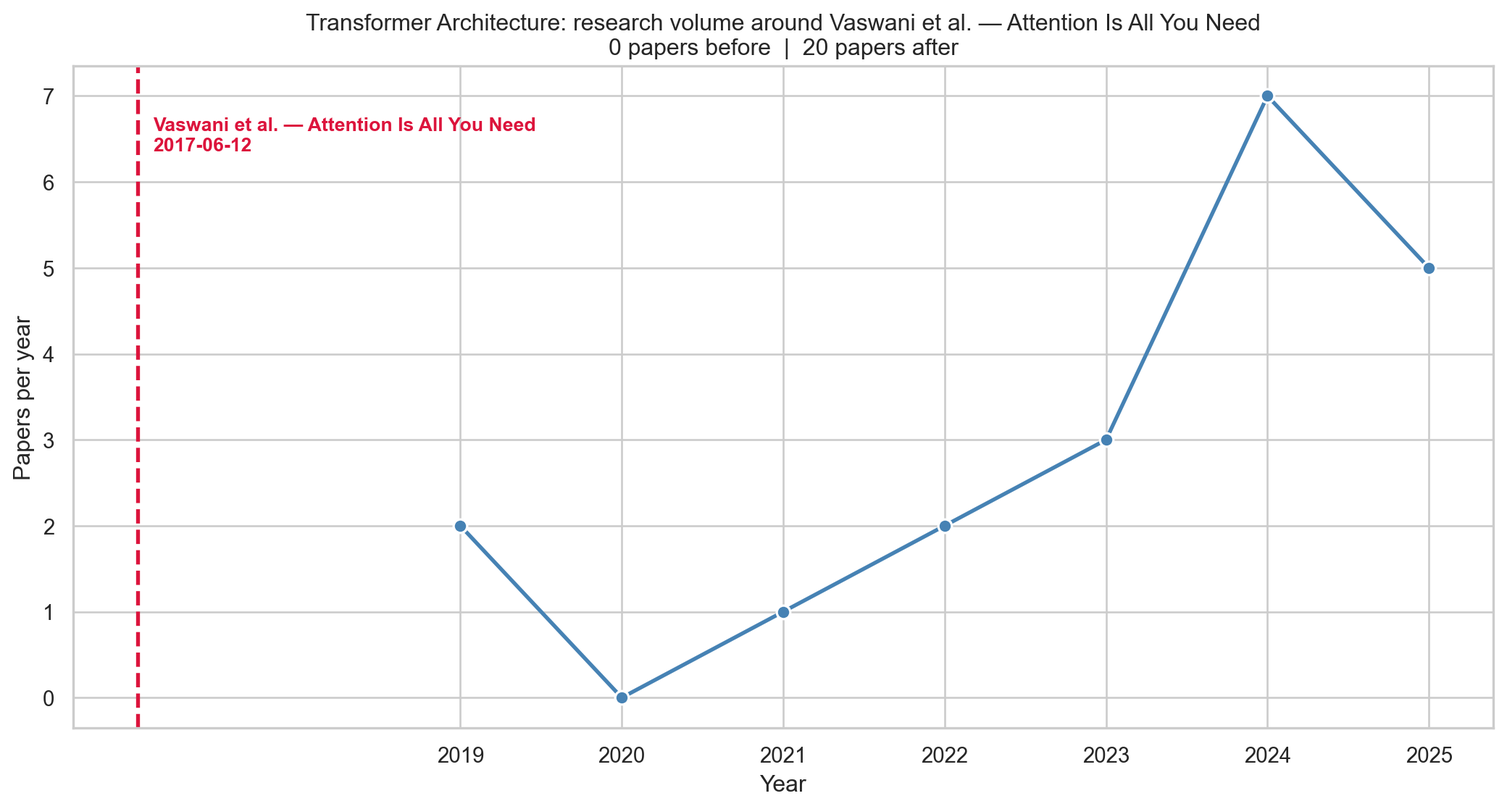
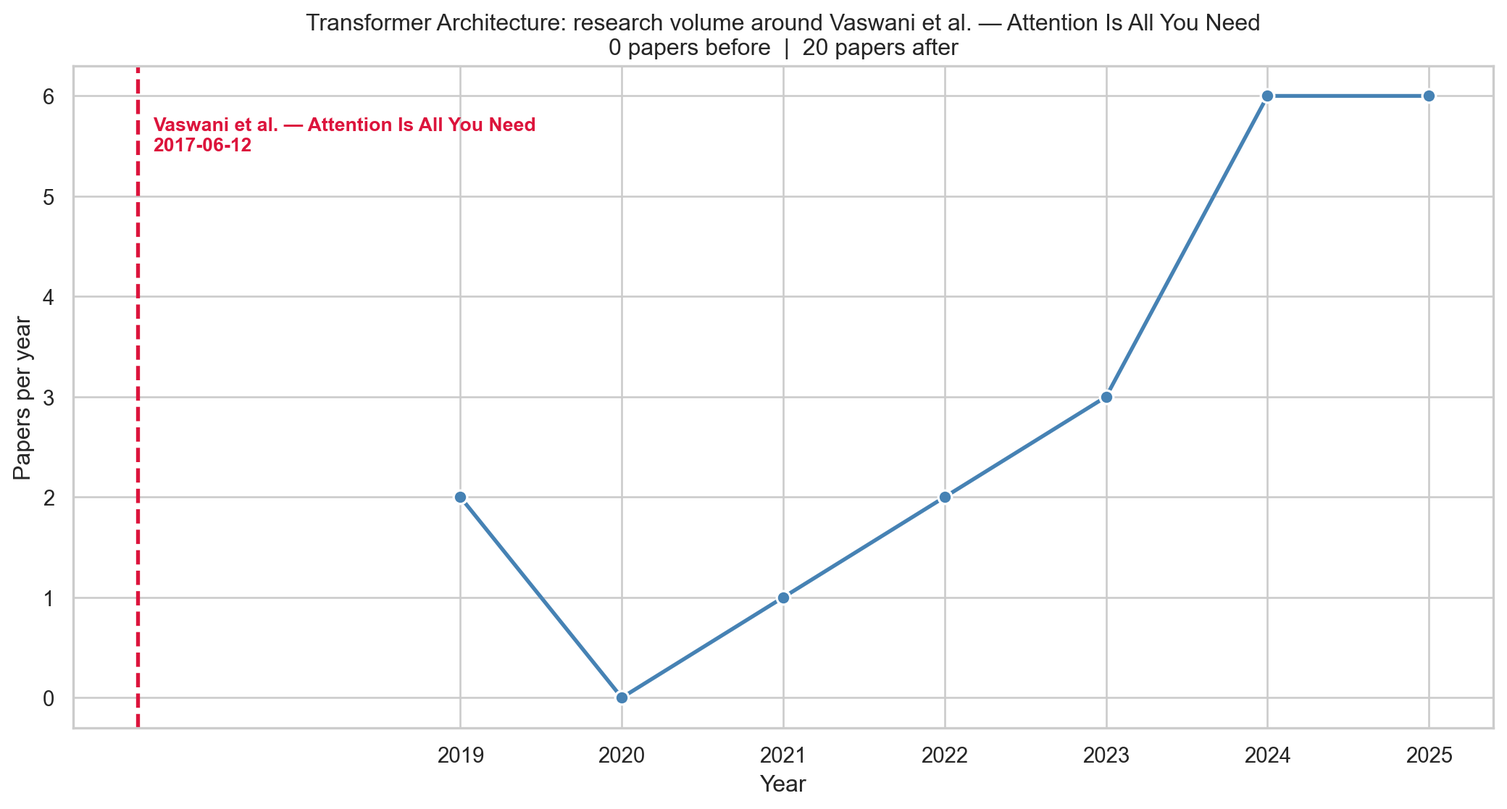
Rendering the pages with updated cache

Changed region(s): [[0.0312, 0.0913, 1.0, 0.7001], [0.0312, 0.6088, 1.0, 0.8523]]

diff --git a/docs/tutorial.html b/docs/tutorial.html
@@ -202,11 +202,11 @@ pre > code.sourceCode > span > a:first-child::before { text-decoration: underlin
 <section id="importing" class="level2">
 <h2 class="anchored" data-anchor-id="importing">Importing</h2>
 <p>To import the entire package:</p>
-<div id="1877313b" class="cell" data-execution_count="2">
+<div id="80380917" class="cell" data-execution_count="2">
 <div class="code-copy-outer-scaffold"><div class="sourceCode cell-code" id="cb3"><pre class="sourceCode python code-with-copy"><code class="sourceCode python"><span id="cb3-1"><a href="#cb3-1" aria-hidden="true" tabindex="-1"></a><span class="im">import</span> ml_research_trends</span></code></pre></div><button title="Copy to Clipboard" class="code-copy-button"><i class="bi"></i></button></div>
 </div>
 <p>To import individual functions:</p>
-<div id="402407ae" class="cell" data-execution_count="3">
+<div id="df97f679" class="cell" data-execution_count="3">
 <div class="code-copy-outer-scaffold"><div class="sourceCode cell-code" id="cb4"><pre class="sourceCode python code-with-copy"><code class="sourceCode python"><span id="cb4-1"><a href="#cb4-1" aria-hidden="true" tabindex="-1"></a><span class="im">from</span> ml_research_trends <span class="im">import</span> (</span>
 <span id="cb4-2"><a href="#cb4-2" aria-hidden="true" tabindex="-1"></a>    collect_topic_data,</span>
 <span id="cb4-3"><a href="#cb4-3" aria-hidden="true" tabindex="-1"></a>    summarize_topic_data,</span>
@@ -220,7 +220,7 @@ pre > code.sourceCode > span > a:first-child::before { text-decoration: underlin
 <section id="setting-up-api-key" class="level2">
 <h2 class="anchored" data-anchor-id="setting-up-api-key">Setting up API Key</h2>
 <p>To load your API key from a <code>.env</code> file, use the <code>python-dotenv</code> package:</p>
-<div id="ef46e774" class="cell" data-execution_count="4">
+<div id="489b87f1" class="cell" data-execution_count="4">
 <div class="code-copy-outer-scaffold"><div class="sourceCode cell-code" id="cb5"><pre class="sourceCode python code-with-copy"><code class="sourceCode python"><span id="cb5-1"><a href="#cb5-1" aria-hidden="true" tabindex="-1"></a><span class="im">from</span> dotenv <span class="im">import</span> load_dotenv</span>
 <span id="cb5-2"><a href="#cb5-2" aria-hidden="true" tabindex="-1"></a><span class="im">import</span> os</span>
 <span id="cb5-3"><a href="#cb5-3" aria-hidden="true" tabindex="-1"></a></span>
@@ -239,7 +239,7 @@ pre > code.sourceCode > span > a:first-child::before { text-decoration: underlin
 <h3 class="anchored" data-anchor-id="step-1-gather-data">Step 1: Gather Data</h3>
 <p>First you need to create your dataset using the SemanticScholar API. You can do this using the <code>collect_topic_data</code> function.</p>
 <p>This queries Semantic Scholar for each keyword, de-duplicates the results, filters by year, and returns a tidy <code>pandas.DataFrame</code>. It also writes the DataFrame to CSV if <code>save_path</code> is given.</p>
-<div id="058a8e66" class="cell" data-execution_count="5">
+<div id="455bee70" class="cell" data-execution_count="5">
 <div class="code-copy-outer-scaffold"><div class="sourceCode cell-code" id="cb7"><pre class="sourceCode python code-with-copy"><code class="sourceCode python"><span id="cb7-1"><a href="#cb7-1" aria-hidden="true" tabindex="-1"></a>df <span class="op">=</span> collect_topic_data(</span>
 <span id="cb7-2"><a href="#cb7-2" aria-hidden="true" tabindex="-1"></a>    keywords<span class="op">=</span>[</span>
 <span id="cb7-3"><a href="#cb7-3" aria-hidden="true" tabindex="-1"></a>        <span class="st">"self-attention neural network"</span>,</span>
@@ -256,7 +256,13 @@ pre > code.sourceCode > span > a:first-child::before { text-decoration: underlin
 <span id="cb7-14"><a href="#cb7-14" aria-hidden="true" tabindex="-1"></a><span class="bu">print</span>(df[[<span class="st">"title"</span>, <span class="st">"year"</span>, <span class="st">"citation_count"</span>, <span class="st">"venue"</span>]].head())</span>
 <span id="cb7-15"><a href="#cb7-15" aria-hidden="true" tabindex="-1"></a><span class="bu">print</span>(<span class="st">"Total papers:"</span>, <span class="bu">len</span>(df))</span></code></pre></div><button title="Copy to Clipboard" class="code-copy-button"><i class="bi"></i></button></div>
 <div class="cell-output cell-output-stderr">
-<pre><code>Fetching papers:   0%|          | 0/4 [00:00&lt;?, ?req/s]Fetching papers:   0%|          | 0/4 [00:00&lt;?, ?req/s, keyword=self-attention neural network]Fetching papers:  25%|██▌       | 1/4 [00:00&lt;00:02,  1.33req/s, keyword=self-attention neural network]Fetching papers:  25%|██▌       | 1/4 [00:00&lt;00:02,  1.33req/s, collected=0, keyword=self-attention neural network]Fetching papers:  25%|██▌       | 1/4 [00:00&lt;00:02,  1.33req/s, keyword=multi-head attention]                      Fetching papers:  50%|█████     | 2/4 [00:01&lt;00:01,  1.09req/s, keyword=multi-head attention]Fetching papers:  50%|█████     | 2/4 [00:01&lt;00:01,  1.09req/s, collected=5, keyword=multi-head attention]Fetching papers:  50%|█████     | 2/4 [00:01&lt;00:01,  1.09req/s, keyword=transformer language model]       Fetching papers:  75%|███████▌  | 3/4 [00:03&lt;00:01,  1.09s/req, keyword=transformer language model]Fetching papers:  75%|███████▌  | 3/4 [00:03&lt;00:01,  1.09s/req, collected=10, keyword=transformer language model]Fetching papers:  75%|███████▌  | 3/4 [00:03&lt;00:01,  1.09s/req, keyword=encoder decoder transformer]             Fetching papers: 100%|██████████| 4/4 [00:04&lt;00:00,  1.09s/req, keyword=encoder decoder transformer]Fetching papers: 100%|██████████| 4/4 [00:04&lt;00:00,  1.09s/req, collected=15, keyword=encoder decoder transformer]Fetching papers: 100%|██████████| 4/4 [00:04&lt;00:00,  1.04s/req, collected=15, keyword=encoder decoder transformer]</code></pre>
+<pre><code>Fetching papers:   0%|          | 0/4 [00:00&lt;?, ?req/s]Fetching papers:   0%|          | 0/4 [00:00&lt;?, ?req/s, keyword=self-attention neural network]Fetching papers:  25%|██▌       | 1/4 [00:00&lt;00:02,  1.13req/s, keyword=self-attention neural network]Fetching papers:  25%|██▌       | 1/4 [00:00&lt;00:02,  1.13req/s, collected=0, keyword=self-attention neural network]Fetching papers:  25%|██▌       | 1/4 [00:00&lt;00:02,  1.13req/s, keyword=multi-head attention]                                                                                                                   Fetching papers:  25%|██▌       | 1/4 [00:01&lt;00:02,  1.13req/s, keyword=multi-head attention]</code></pre>
+</div>
+<div class="cell-output cell-output-stdout">
+<pre><code>Rate limited (429). Waiting 1s before retry...</code></pre>
+</div>
+<div class="cell-output cell-output-stderr">
+<pre><code>Fetching papers:  50%|█████     | 2/4 [00:03&lt;00:03,  1.72s/req, keyword=multi-head attention]Fetching papers:  50%|█████     | 2/4 [00:03&lt;00:03,  1.72s/req, collected=5, keyword=multi-head attention]Fetching papers:  50%|█████     | 2/4 [00:03&lt;00:03,  1.72s/req, keyword=transformer language model]       Fetching papers:  75%|███████▌  | 3/4 [00:04&lt;00:01,  1.45s/req, keyword=transformer language model]Fetching papers:  75%|███████▌  | 3/4 [00:04&lt;00:01,  1.45s/req, collected=10, keyword=transformer language model]Fetching papers:  75%|███████▌  | 3/4 [00:04&lt;00:01,  1.45s/req, keyword=encoder decoder transformer]             Fetching papers: 100%|██████████| 4/4 [00:05&lt;00:00,  1.26s/req, keyword=encoder decoder transformer]Fetching papers: 100%|██████████| 4/4 [00:05&lt;00:00,  1.26s/req, collected=15, keyword=encoder decoder transformer]Fetching papers: 100%|██████████| 4/4 [00:05&lt;00:00,  1.32s/req, collected=15, keyword=encoder decoder transformer]</code></pre>
 </div>
 <div class="cell-output cell-output-stdout">
 <pre><code>                                               title  year  citation_count  \
@@ -281,14 +287,14 @@ Total papers: 20</code></pre>
 </section>
 <section id="step-2-summarize-and-analyze" class="level3">
 <h3 class="anchored" data-anchor-id="step-2-summarize-and-analyze">Step 2: Summarize and analyze</h3>
-<div id="f2e312cc" class="cell" data-execution_count="6">
-<div class="code-copy-outer-scaffold"><div class="sourceCode cell-code" id="cb11"><pre class="sourceCode python code-with-copy"><code class="sourceCode python"><span id="cb11-1"><a href="#cb11-1" aria-hidden="true" tabindex="-1"></a>summary <span class="op">=</span> summarize_topic_data(df)</span>
-<span id="cb11-2"><a href="#cb11-2" aria-hidden="true" tabindex="-1"></a><span class="bu">print</span>(<span class="st">"Total papers:"</span>, summary[<span class="st">"total_papers"</span>])</span>
-<span id="cb11-3"><a href="#cb11-3" aria-hidden="true" tabindex="-1"></a><span class="bu">print</span>(<span class="st">"Year range:"</span>, summary[<span class="st">"year_min"</span>], <span class="st">"-"</span>, summary[<span class="st">"year_max"</span>])</span>
-<span id="cb11-4"><a href="#cb11-4" aria-hidden="true" tabindex="-1"></a><span class="bu">print</span>(<span class="st">"Median citations:"</span>, summary[<span class="st">"median_citations"</span>])</span>
-<span id="cb11-5"><a href="#cb11-5" aria-hidden="true" tabindex="-1"></a></span>
-<span id="cb11-6"><a href="#cb11-6" aria-hidden="true" tabindex="-1"></a>trends <span class="op">=</span> analyze_topic_trends(df)</span>
-<span id="cb11-7"><a href="#cb11-7" aria-hidden="true" tabindex="-1"></a><span class="bu">print</span>(trends)</span></code></pre></div><button title="Copy to Clipboard" class="code-copy-button"><i class="bi"></i></button></div>
+<div id="efb31002" class="cell" data-execution_count="6">
+<div class="code-copy-outer-scaffold"><div class="sourceCode cell-code" id="cb13"><pre class="sourceCode python code-with-copy"><code class="sourceCode python"><span id="cb13-1"><a href="#cb13-1" aria-hidden="true" tabindex="-1"></a>summary <span class="op">=</span> summarize_topic_data(df)</span>
+<span id="cb13-2"><a href="#cb13-2" aria-hidden="true" tabindex="-1"></a><span class="bu">print</span>(<span class="st">"Total papers:"</span>, summary[<span class="st">"total_papers"</span>])</span>
+<span id="cb13-3"><a href="#cb13-3" aria-hidden="true" tabindex="-1"></a><span class="bu">print</span>(<span class="st">"Year range:"</span>, summary[<span class="st">"year_min"</span>], <span class="st">"-"</span>, summary[<span class="st">"year_max"</span>])</span>
+<span id="cb13-4"><a href="#cb13-4" aria-hidden="true" tabindex="-1"></a><span class="bu">print</span>(<span class="st">"Median citations:"</span>, summary[<span class="st">"median_citations"</span>])</span>
+<span id="cb13-5"><a href="#cb13-5" aria-hidden="true" tabindex="-1"></a></span>
+<span id="cb13-6"><a href="#cb13-6" aria-hidden="true" tabindex="-1"></a>trends <span class="op">=</span> analyze_topic_trends(df)</span>
+<span id="cb13-7"><a href="#cb13-7" aria-hidden="true" tabindex="-1"></a><span class="bu">print</span>(trends)</span></code></pre></div><button title="Copy to Clipboard" class="code-copy-button"><i class="bi"></i></button></div>
 <div class="cell-output cell-output-stdout">
 <pre><code>Total papers: 20
 Year range: 2019 - 2025
@@ -298,8 +304,8 @@ Median citations: 23.5
 1  2021            1          70.000000              70.0
 2  2022            2          52.000000              52.0
 3  2023            3          21.666667              19.0
-4  2024            7          19.571429              18.0
-5  2025            5          17.600000              17.0</code></pre>
+4  2024            6          21.000000              21.0
+5  2025            6          14.666667              14.5</code></pre>
 </div>
 </div>
 </section>
@@ -307,12 +313,12 @@ Median citations: 23.5
 <h3 class="anchored" data-anchor-id="step-3-make-plots">Step 3: Make plots</h3>
 <section id="year-counts" class="level4">
 <h4 class="anchored" data-anchor-id="year-counts">Year counts</h4>
-<div id="bf8890e1" class="cell" data-execution_count="7">
-<div class="code-copy-outer-scaffold"><div class="sourceCode cell-code" id="cb13"><pre class="sourceCode python code-with-copy"><code class="sourceCode python"><span id="cb13-1"><a href="#cb13-1" aria-hidden="true" tabindex="-1"></a>plot_topic_counts_by_year(</span>
-<span id="cb13-2"><a href="#cb13-2" aria-hidden="true" tabindex="-1"></a>    trends, </span>
-<span id="cb13-3"><a href="#cb13-3" aria-hidden="true" tabindex="-1"></a>    topic_name<span class="op">=</span><span class="st">"Transformer Architecture"</span></span>
-<span id="cb13-4"><a href="#cb13-4" aria-hidden="true" tabindex="-1"></a>)</span>
-<span id="cb13-5"><a href="#cb13-5" aria-hidden="true" tabindex="-1"></a><span class="va">None</span></span></code></pre></div><button title="Copy to Clipboard" class="code-copy-button"><i class="bi"></i></button></div>
+<div id="00441028" class="cell" data-execution_count="7">
+<div class="code-copy-outer-scaffold"><div class="sourceCode cell-code" id="cb15"><pre class="sourceCode python code-with-copy"><code class="sourceCode python"><span id="cb15-1"><a href="#cb15-1" aria-hidden="true" tabindex="-1"></a>plot_topic_counts_by_year(</span>
+<span id="cb15-2"><a href="#cb15-2" aria-hidden="true" tabindex="-1"></a>    trends, </span>
+<span id="cb15-3"><a href="#cb15-3" aria-hidden="true" tabindex="-1"></a>    topic_name<span class="op">=</span><span class="st">"Transformer Architecture"</span></span>
+<span id="cb15-4"><a href="#cb15-4" aria-hidden="true" tabindex="-1"></a>)</span>
+<span id="cb15-5"><a href="#cb15-5" aria-hidden="true" tabindex="-1"></a><span class="va">None</span></span></code></pre></div><button title="Copy to Clipboard" class="code-copy-button"><i class="bi"></i></button></div>
 <div class="cell-output cell-output-display">
 <div>
 <figure class="figure">
@@ -324,14 +330,14 @@ Median citations: 23.5
 </section>
 <section id="landmark-timeline" class="level4">
 <h4 class="anchored" data-anchor-id="landmark-timeline">Landmark Timeline</h4>
-<div id="95ce99e2" class="cell" data-execution_count="8">
-<div class="code-copy-outer-scaffold"><div class="sourceCode cell-code" id="cb14"><pre class="sourceCode python code-with-copy"><code class="sourceCode python"><span id="cb14-1"><a href="#cb14-1" aria-hidden="true" tabindex="-1"></a>plot_landmark_timeline(</span>
-<span id="cb14-2"><a href="#cb14-2" aria-hidden="true" tabindex="-1"></a>    df,</span>
-<span id="cb14-3"><a href="#cb14-3" aria-hidden="true" tabindex="-1"></a>    landmark_date<span class="op">=</span><span class="st">"2017-06-12"</span>,</span>
-<span id="cb14-4"><a href="#cb14-4" aria-hidden="true" tabindex="-1"></a>    landmark_label<span class="op">=</span><span class="st">"Vaswani et al. — Attention Is All You Need"</span>,</span>
-<span id="cb14-5"><a href="#cb14-5" aria-hidden="true" tabindex="-1"></a>    topic_name<span class="op">=</span><span class="st">"Transformer Architecture"</span>,</span>
-<span id="cb14-6"><a href="#cb14-6" aria-hidden="true" tabindex="-1"></a>)</span>
-<span id="cb14-7"><a href="#cb14-7" aria-hidden="true" tabindex="-1"></a><span class="va">None</span></span></code></pre></div><button title="Copy to Clipboard" class="code-copy-button"><i class="bi"></i></button></div>
+<div id="47de600d" class="cell" data-execution_count="8">
+<div class="code-copy-outer-scaffold"><div class="sourceCode cell-code" id="cb16"><pre class="sourceCode python code-with-copy"><code class="sourceCode python"><span id="cb16-1"><a href="#cb16-1" aria-hidden="true" tabindex="-1"></a>plot_landmark_timeline(</span>
+<span id="cb16-2"><a href="#cb16-2" aria-hidden="true" tabindex="-1"></a>    df,</span>
+<span id="cb16-3"><a href="#cb16-3" aria-hidden="true" tabindex="-1"></a>    landmark_date<span class="op">=</span><span class="st">"2017-06-12"</span>,</span>
+<span id="cb16-4"><a href="#cb16-4" aria-hidden="true" tabindex="-1"></a>    landmark_label<span class="op">=</span><span class="st">"Vaswani et al. — Attention Is All You Need"</span>,</span>
+<span id="cb16-5"><a href="#cb16-5" aria-hidden="true" tabindex="-1"></a>    topic_name<span class="op">=</span><span class="st">"Transformer Architecture"</span>,</span>
+<span id="cb16-6"><a href="#cb16-6" aria-hidden="true" tabindex="-1"></a>)</span>
+<span id="cb16-7"><a href="#cb16-7" aria-hidden="true" tabindex="-1"></a><span class="va">None</span></span></code></pre></div><button title="Copy to Clipboard" class="code-copy-button"><i class="bi"></i></button></div>
 <div class="cell-output cell-output-display">
 <div>
 <figure class="figure">
@@ -344,15 +350,33 @@ Median citations: 23.5
 <section id="embedding-abstracts" class="level4">
 <h4 class="anchored" data-anchor-id="embedding-abstracts">Embedding Abstracts</h4>
 <p>Note: Embedding the first time will download the model (~8 GB) and cache the vectors to <code>cache_path</code>. After that, rerunning is fast.</p>
-<div id="aacf5689" class="cell" data-execution_count="9">
-<div class="code-copy-outer-scaffold"><div class="sourceCode cell-code" id="cb15"><pre class="sourceCode python code-with-copy"><code class="sourceCode python"><span id="cb15-1"><a href="#cb15-1" aria-hidden="true" tabindex="-1"></a><span class="co"># embed_and_plot_abstracts(</span></span>
-<span id="cb15-2"><a href="#cb15-2" aria-hidden="true" tabindex="-1"></a><span class="co">#    df,</span></span>
-<span id="cb15-3"><a href="#cb15-3" aria-hidden="true" tabindex="-1"></a><span class="co">#    model_name_or_path="Qwen/Qwen3-Embedding-4B",</span></span>
-<span id="cb15-4"><a href="#cb15-4" aria-hidden="true" tabindex="-1"></a><span class="co">#    reducer="umap",</span></span>
-<span id="cb15-5"><a href="#cb15-5" aria-hidden="true" tabindex="-1"></a><span class="co">#    cache_path="transformer_embeddings.npy",</span></span>
-<span id="cb15-6"><a href="#cb15-6" aria-hidden="true" tabindex="-1"></a><span class="co">#    topic_name="Transformer Architecture"</span></span>
-<span id="cb15-7"><a href="#cb15-7" aria-hidden="true" tabindex="-1"></a><span class="co">#)</span></span>
-<span id="cb15-8"><a href="#cb15-8" aria-hidden="true" tabindex="-1"></a><span class="va">None</span></span></code></pre></div><button title="Copy to Clipboard" class="code-copy-button"><i class="bi"></i></button></div>
+<div id="ef24828e" class="cell" data-execution_count="9">
+<div class="code-copy-outer-scaffold"><div class="sourceCode cell-code" id="cb17"><pre class="sourceCode python code-with-copy"><code class="sourceCode python"><span id="cb17-1"><a href="#cb17-1" aria-hidden="true" tabindex="-1"></a>embed_and_plot_abstracts(</span>
+<span id="cb17-2"><a href="#cb17-2" aria-hidden="true" tabindex="-1"></a>    df,</span>
+<span id="cb17-3"><a href="#cb17-3" aria-hidden="true" tabindex="-1"></a>    model_name_or_path<span class="op">=</span><span class="st">"Qwen/Qwen3-Embedding-4B"</span>,</span>
+<span id="cb17-4"><a href="#cb17-4" aria-hidden="true" tabindex="-1"></a>    reducer<span class="op">=</span><span class="st">"umap"</span>,</span>
+<span id="cb17-5"><a href="#cb17-5" aria-hidden="true" tabindex="-1"></a>    cache_path<span class="op">=</span><span class="st">"cache/transformer_embeddings.npy"</span>,</span>
+<span id="cb17-6"><a href="#cb17-6" aria-hidden="true" tabindex="-1"></a>    topic_name<span class="op">=</span><span class="st">"Transformer Architecture"</span></span>
+<span id="cb17-7"><a href="#cb17-7" aria-hidden="true" tabindex="-1"></a>)</span>
+<span id="cb17-8"><a href="#cb17-8" aria-hidden="true" tabindex="-1"></a><span class="va">None</span></span></code></pre></div><button title="Copy to Clipboard" class="code-copy-button"><i class="bi"></i></button></div>
+<div class="cell-output cell-output-stdout">
+<pre><code>Loading Qwen/Qwen3-Embedding-4B on cpu...</code></pre>
+</div>
+<div class="cell-output cell-output-stderr">
+<pre><code>Warning: You are sending unauthenticated requests to the HF Hub. Please set a HF_TOKEN to enable higher rate limits and faster downloads.
+Loading weights:   0%|          | 0/398 [00:00&lt;?, ?it/s]Loading weights: 100%|██████████| 398/398 [00:00&lt;00:00, 8837.31it/s]
+Batches:   0%|          | 0/3 [00:00&lt;?, ?it/s]Batches:  33%|███▎      | 1/3 [09:54&lt;19:49, 594.94s/it]Batches:  67%|██████▋   | 2/3 [15:34&lt;07:24, 444.88s/it]Batches: 100%|██████████| 3/3 [15:54&lt;00:00, 250.57s/it]Batches: 100%|██████████| 3/3 [15:54&lt;00:00, 318.04s/it]</code></pre>
+</div>
+<div class="cell-output cell-output-stdout">
+<pre><code>Saved embeddings to cache/transformer_embeddings.npy</code></pre>
+</div>
+<div class="cell-output cell-output-display">
+<div>
+<figure class="figure">
+<p><img src="tutorial_files/figure-html/cell-10-output-4.png" width="1041" height="656" class="figure-img"></p>
+</figure>
+</div>
+</div>
 </div>
 
 

diff --git a/docs/documentation.html b/docs/documentation.html
@@ -216,7 +216,7 @@ uv add ml-research-trends</code></pre>
 <p><strong>Returns</strong></p>
 <p>A <code>pandas.DataFrame</code> with columns: <code>paper_id</code>, <code>title</code>, <code>authors</code>, <code>year</code>, <code>citation_count</code>, <code>abstract</code>, <code>url</code>, <code>venue</code>, <code>keyword</code>.</p>
 <p><strong>Example</strong></p>
-<div id="23bfd1a6" class="cell" data-execution_count="2">
+<div id="f0db3836" class="cell" data-execution_count="2">
 <div class="code-copy-outer-scaffold"><div class="sourceCode cell-code" id="cb3"><pre class="sourceCode python code-with-copy"><code class="sourceCode python"><span id="cb3-1"><a href="#cb3-1" aria-hidden="true" tabindex="-1"></a>df <span class="op">=</span> collect_topic_data([<span class="st">"chain of thought"</span>], max_results_per_keyword<span class="op">=</span><span class="dv">10</span>, </span>
 <span id="cb3-2"><a href="#cb3-2" aria-hidden="true" tabindex="-1"></a>api_key<span class="op">=</span>SEMANTIC_SCHOLAR_API_KEY)</span></code></pre></div><button title="Copy to Clipboard" class="code-copy-button"><i class="bi"></i></button></div>
 </div>
@@ -227,7 +227,7 @@ uv add ml-research-trends</code></pre>
 <pre><code>summarize_topic_data(df) -&gt; dict</code></pre>
 <p>Return a dictionary of quick stats about a topic DataFrame: <code>total_papers</code>, <code>year_min</code>, <code>year_max</code>, <code>average_citations</code>, <code>median_citations</code>, <code>missing_abstracts</code>, and <code>top_venues</code>.</p>
 <p><strong>Example</strong></p>
-<div id="179b4bd1" class="cell" data-execution_count="3">
+<div id="3b1c2d71" class="cell" data-execution_count="3">
 <div class="code-copy-outer-scaffold"><div class="sourceCode cell-code" id="cb5"><pre class="sourceCode python code-with-copy"><code class="sourceCode python"><span id="cb5-1"><a href="#cb5-1" aria-hidden="true" tabindex="-1"></a>summary <span class="op">=</span> summarize_topic_data(df)</span>
 <span id="cb5-2"><a href="#cb5-2" aria-hidden="true" tabindex="-1"></a><span class="bu">print</span>(summary[<span class="st">"total_papers"</span>], summary[<span class="st">"year_min"</span>], summary[<span class="st">"year_max"</span>])</span></code></pre></div><button title="Copy to Clipboard" class="code-copy-button"><i class="bi"></i></button></div>
 <div class="cell-output cell-output-stdout">
@@ -241,7 +241,7 @@ uv add ml-research-trends</code></pre>
 <pre><code>analyze_topic_trends(df) -&gt; pandas.DataFrame</code></pre>
 <p>Group papers by year and compute <code>paper_count</code>, <code>average_citations</code>, and <code>median_citations</code>. Useful input for <code>plot_topic_counts_by_year</code>.</p>
 <p><strong>Example</strong></p>
-<div id="fa26ff91" class="cell" data-execution_count="4">
+<div id="c09c7ae9" class="cell" data-execution_count="4">
 <div class="code-copy-outer-scaffold"><div class="sourceCode cell-code" id="cb8"><pre class="sourceCode python code-with-copy"><code class="sourceCode python"><span id="cb8-1"><a href="#cb8-1" aria-hidden="true" tabindex="-1"></a>trends <span class="op">=</span> analyze_topic_trends(df)</span></code></pre></div><button title="Copy to Clipboard" class="code-copy-button"><i class="bi"></i></button></div>
 </div>
 <hr>
@@ -257,7 +257,7 @@ uv add ml-research-trends</code></pre>
 ) -&gt; matplotlib.figure.Figure</code></pre>
 <p>Bar chart of papers per year. Expects the DataFrame returned by <code>analyze_topic_trends</code>.</p>
 <p><strong>Example</strong></p>
-<div id="3dd49259" class="cell" data-execution_count="5">
+<div id="f8670f97" class="cell" data-execution_count="5">
 <div class="code-copy-outer-scaffold"><div class="sourceCode cell-code" id="cb10"><pre class="sourceCode python code-with-copy"><code class="sourceCode python"><span id="cb10-1"><a href="#cb10-1" aria-hidden="true" tabindex="-1"></a>plot_topic_counts_by_year(trends, topic_name<span class="op">=</span><span class="st">"RAG"</span>, save_path<span class="op">=</span><span class="st">"rag.png"</span>)</span>
 <span id="cb10-2"><a href="#cb10-2" aria-hidden="true" tabindex="-1"></a><span class="va">None</span></span></code></pre></div><button title="Copy to Clipboard" class="code-copy-button"><i class="bi"></i></button></div>
 <div class="cell-output cell-output-display">
@@ -296,14 +296,34 @@ uv add ml-research-trends</code></pre>
 <p><strong>Returns</strong></p>
 <p>A DataFrame with columns <code>paper_id</code>, <code>title</code>, <code>year</code>, <code>x</code>, <code>y</code>.</p>
 <p><strong>Example</strong></p>
-<div id="4eb66d3d" class="cell" data-execution_count="6">
-<div class="code-copy-outer-scaffold"><div class="sourceCode cell-code" id="cb12"><pre class="sourceCode python code-with-copy"><code class="sourceCode python"><span id="cb12-1"><a href="#cb12-1" aria-hidden="true" tabindex="-1"></a><span class="co"># coords = embed_and_plot_abstracts(</span></span>
-<span id="cb12-2"><a href="#cb12-2" aria-hidden="true" tabindex="-1"></a><span class="co">#    df,</span></span>
-<span id="cb12-3"><a href="#cb12-3" aria-hidden="true" tabindex="-1"></a><span class="co">#    model_name_or_path="Qwen/Qwen3-Embedding-4B",</span></span>
-<span id="cb12-4"><a href="#cb12-4" aria-hidden="true" tabindex="-1"></a><span class="co">#    reducer="umap",</span></span>
-<span id="cb12-5"><a href="#cb12-5" aria-hidden="true" tabindex="-1"></a><span class="co">#    cache_path="transformer_embeddings.npy",</span></span>
-<span id="cb12-6"><a href="#cb12-6" aria-hidden="true" tabindex="-1"></a><span class="co">#)</span></span>
+<div id="f5b73cf9" class="cell" data-execution_count="6">
+<div class="code-copy-outer-scaffold"><div class="sourceCode cell-code" id="cb12"><pre class="sourceCode python code-with-copy"><code class="sourceCode python"><span id="cb12-1"><a href="#cb12-1" aria-hidden="true" tabindex="-1"></a>coords <span class="op">=</span> embed_and_plot_abstracts(</span>
+<span id="cb12-2"><a href="#cb12-2" aria-hidden="true" tabindex="-1"></a>    df,</span>
+<span id="cb12-3"><a href="#cb12-3" aria-hidden="true" tabindex="-1"></a>    model_name_or_path<span class="op">=</span><span class="st">"Qwen/Qwen3-Embedding-4B"</span>,</span>
+<span id="cb12-4"><a href="#cb12-4" aria-hidden="true" tabindex="-1"></a>    reducer<span class="op">=</span><span class="st">"umap"</span>,</span>
+<span id="cb12-5"><a href="#cb12-5" aria-hidden="true" tabindex="-1"></a>    cache_path<span class="op">=</span><span class="st">"cache/transformer_embeddings.npy"</span>,</span>
+<span id="cb12-6"><a href="#cb12-6" aria-hidden="true" tabindex="-1"></a>)</span>
 <span id="cb12-7"><a href="#cb12-7" aria-hidden="true" tabindex="-1"></a><span class="va">None</span></span></code></pre></div><button title="Copy to Clipboard" class="code-copy-button"><i class="bi"></i></button></div>
+<div class="cell-output cell-output-stderr">
+<pre><code>Warning: You are sending unauthenticated requests to the HF Hub. Please set a HF_TOKEN to enable higher rate limits and faster downloads.</code></pre>
+</div>
+<div class="cell-output cell-output-stdout">
+<pre><code>Loading Qwen/Qwen3-Embedding-4B on cpu...</code></pre>
+</div>
+<div class="cell-output cell-output-stderr">
+<pre><code>Loading weights:   0%|          | 0/398 [00:00&lt;?, ?it/s]Loading weights: 100%|██████████| 398/398 [00:00&lt;00:00, 14967.17it/s]
+Batches:   0%|          | 0/2 [00:00&lt;?, ?it/s]Batches:  50%|█████     | 1/2 [11:10&lt;11:10, 670.07s/it]Batches: 100%|██████████| 2/2 [12:37&lt;00:00, 327.38s/it]Batches: 100%|██████████| 2/2 [12:37&lt;00:00, 378.79s/it]</code></pre>
+</div>
+<div class="cell-output cell-output-stdout">
+<pre><code>Saved embeddings to cache/transformer_embeddings.npy</code></pre>
+</div>
+<div class="cell-output cell-output-display">
+<div>
+<figure class="figure">
+<p><img src="documentation_files/figure-html/cell-7-output-5.png" width="1041" height="656" class="figure-img"></p>
+</figure>
+</div>
+</div>
 </div>
 <hr>
 </section>
@@ -321,14 +341,14 @@ uv add ml-research-trends</code></pre>
 ) -&gt; pandas.DataFrame</code></pre>
 <p>Line plot of papers per year with a vertical dashed line marking a landmark paper’s date. Also prints how many papers came before vs.&nbsp;after the landmark.</p>
 <p><strong>Example</strong></p>
-<div id="7a48169f" class="cell" data-execution_count="7">
-<div class="code-copy-outer-scaffold"><div class="sourceCode cell-code" id="cb14"><pre class="sourceCode python code-with-copy"><code class="sourceCode python"><span id="cb14-1"><a href="#cb14-1" aria-hidden="true" tabindex="-1"></a>plot_landmark_timeline(</span>
-<span id="cb14-2"><a href="#cb14-2" aria-hidden="true" tabindex="-1"></a>    df,</span>
-<span id="cb14-3"><a href="#cb14-3" aria-hidden="true" tabindex="-1"></a>    landmark_date<span class="op">=</span><span class="st">"2020-05-22"</span>,</span>
-<span id="cb14-4"><a href="#cb14-4" aria-hidden="true" tabindex="-1"></a>    landmark_label<span class="op">=</span><span class="st">"Lewis et al. — RAG"</span>,</span>
-<span id="cb14-5"><a href="#cb14-5" aria-hidden="true" tabindex="-1"></a>    topic_name<span class="op">=</span><span class="st">"RAG"</span>,</span>
-<span id="cb14-6"><a href="#cb14-6" aria-hidden="true" tabindex="-1"></a>)</span>
-<span id="cb14-7"><a href="#cb14-7" aria-hidden="true" tabindex="-1"></a><span class="va">None</span></span></code></pre></div><button title="Copy to Clipboard" class="code-copy-button"><i class="bi"></i></button></div>
+<div id="57018774" class="cell" data-execution_count="7">
+<div class="code-copy-outer-scaffold"><div class="sourceCode cell-code" id="cb18"><pre class="sourceCode python code-with-copy"><code class="sourceCode python"><span id="cb18-1"><a href="#cb18-1" aria-hidden="true" tabindex="-1"></a>plot_landmark_timeline(</span>
+<span id="cb18-2"><a href="#cb18-2" aria-hidden="true" tabindex="-1"></a>    df,</span>
+<span id="cb18-3"><a href="#cb18-3" aria-hidden="true" tabindex="-1"></a>    landmark_date<span class="op">=</span><span class="st">"2020-05-22"</span>,</span>
+<span id="cb18-4"><a href="#cb18-4" aria-hidden="true" tabindex="-1"></a>    landmark_label<span class="op">=</span><span class="st">"Lewis et al. — RAG"</span>,</span>
+<span id="cb18-5"><a href="#cb18-5" aria-hidden="true" tabindex="-1"></a>    topic_name<span class="op">=</span><span class="st">"RAG"</span>,</span>
+<span id="cb18-6"><a href="#cb18-6" aria-hidden="true" tabindex="-1"></a>)</span>
+<span id="cb18-7"><a href="#cb18-7" aria-hidden="true" tabindex="-1"></a><span class="va">None</span></span></code></pre></div><button title="Copy to Clipboard" class="code-copy-button"><i class="bi"></i></button></div>
 <div class="cell-output cell-output-display">
 <div>
 <figure class="figure">
